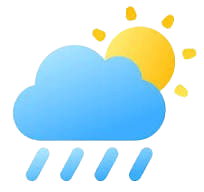
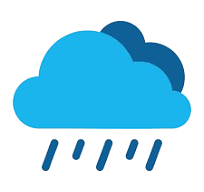
Added iamges and updated html and js files

diff --git a/js/main.js b/js/main.js
@@ -1,41 +1,48 @@
-const apiKey = "0e2efe55edbb0063b44bd09f05d18fa0";
-// const city = "bangalore";
-const apiUrl ="https://api.openweathermap.org/data/2.5/weather?units=metric&q=";
+document.addEventListener("DOMContentLoaded", () => {
+    const apiKey = "0e2efe55edbb0063b44bd09f05d18fa0";
+    const apiUrl = "https://api.openweathermap.org/data/2.5/weather?units=metric&q=";
 
-const searchBox = document.querySelector(".search input");
-const searchBtn = document.querySelector(".search button");
-const weatherIcon = document.querySelector(".weathericon");
+    const searchBox = document.querySelector(".search input");
+    const searchBtn = document.querySelector(".search button");
+    const weatherIcon = document.querySelector(".weathericon");
 
-async function checkWeather(city) {
-    const response = await fetch(apiUrl+ city +  `&appid=${apiKey}`);
-    var data = await response.json();
 
-    console.log(data);
+    async function checkWeather(city) {
+        const response = await fetch(apiUrl + city + `&appid=${apiKey}`);
 
-    document.querySelector(".city").innerHTML = data.name;
-    document.querySelector(".temp") .innerHTML = Math.round(data.main.temp) + "°C" ;
-    document.querySelector(".humidity").innerHTML = data.main.humidity + "%";
-    document.querySelector(".wind").innerHTML = data.wind.speed + "km/h ";
+        if(response.status == 404){
+            document.querySelector(".error").style.display = "block";
+            document.querySelector(".weather").style.display = "none";
+        }
+        else{
+            const data = await response.json();
 
-}   
+            document.querySelector(".city").innerHTML = data.name;
+            document.querySelector(".temp").innerHTML = Math.round(data.main.temp) + "°C";
+            document.querySelector(".humidity").innerHTML = data.main.humidity + "%";
+            document.querySelector(".wind").innerHTML = data.wind.speed + "km/h";
 
-if(data.weather[0].main == "cloud"){
-    weatherIcon.src = "images/clouds.png"
-}
-else if (data.weather[0].main == "Clear"){
-    weatherIcon.src = "images/clouds.png"
-}
-else if (data.weather[0].main == "Rain"){
-    weatherIcon.src = "images/clouds.png"
-}
-else if (data.weather[0].main == "Drizzle"){
-    weatherIcon.src = "images/clouds.png"
-}
-else if (data.weather[0].main == "Mist"){
-    weatherIcon.src = "images/clouds.png"
-}
+            // Set weather icon based on data.weather[0].main
+            if (data.weather[0].main === "Clouds") {
+                weatherIcon.src = "./images/cloudy.png";
+            } else if (data.weather[0].main === "Clear") {
+                weatherIcon.src = "./images/sun.png";
+            } else if (data.weather[0].main === "Rain") {
+                weatherIcon.src = "./images/rain.png";
+            } else if (data.weather[0].main === "Drizzle") {
+                weatherIcon.src = "./images/drizzle.png";
+            } else if (data.weather[0].main === "Mist") {
+                weatherIcon.src = "./images/cloudy.png";
+            }
+            
+            document.querySelector(".weather").style.display = "block";
+            document.querySelector(".error").style.display = "none";
+        }
+    
+  
+    }
 
-searchBtn.addEventListener("click", ()=>{
-    checkWeather(searchBox.value);
-})
-
+    searchBtn.addEventListener("click", () => {
+        checkWeather(searchBox.value);
+    });
+});

diff --git a/index.html b/index.html
@@ -11,11 +11,14 @@
 <body>
     <div class="card">
         <div class="search">
-            <input type="text" placeholder="enter city name" spellcheck="false" >
-            <button><img src="images/search-icon.png" alt="serachbar-icon"></button>
+            <input type="text" placeholder="enter city name" spellcheck="false">
+            <button><img src="images/search-icon.png" alt="searchbar-icon"></button>
+        </div>
+        <div class="error">
+            <p>Invaild city name*</p>
         </div>
         <div class="weather">
-            <img src="images/rain.png" class="weather-icon">
+            <img src="images/rain.png" class="weathericon">  <!-- Updated class name -->
             <h1 class="temp">22°C</h1>
             <h2 class="city">New York</h2>
             <div class="details">
@@ -30,7 +33,7 @@
                     <img src="images/wind.png" class="wind-img">
                     <div>
                         <p class="wind">15 km/h</p>
-                        <p>wind seed</p>
+                        <p>wind speed</p>  <!-- Corrected typo from "wind seed" to "wind speed" -->
                     </div>
                 </div>
             </div>

diff --git a/css/style.css b/css/style.css
@@ -52,7 +52,19 @@ body{
     width: 22px;
 }
 
-.weather-icon{
+.weather{
+    display: none;
+}
+.error{
+    text-align: left;
+    font-size: 16px;
+    margin-left: 10px;
+    margin-top: 10px;
+    display: none;
+    color: red;
+}
+
+.weathericon{
     width: 100px;
     margin-top: 30px;
 }
